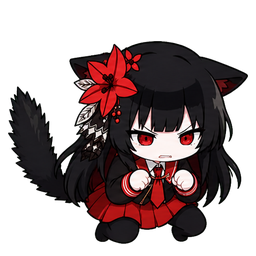
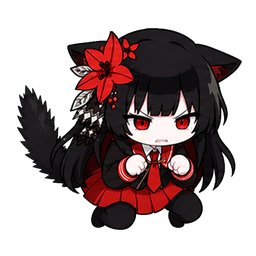
fix: smooth hiss scale transitions

diff --git a/tools/split_hiss_sheet.py b/tools/split_hiss_sheet.py
@@ -1,4 +1,4 @@
-"""Split a transparent three-frame hiss sheet into normalized pet sprites."""
+"""Split a transparent hiss sheet with one shared crop and scale."""
 
 from __future__ import annotations
 
@@ -12,6 +12,7 @@ def parse_args() -> argparse.Namespace:
     parser = argparse.ArgumentParser()
     parser.add_argument("sheet", type=Path)
     parser.add_argument("output_dir", type=Path)
+    parser.add_argument("--frame-count", type=int, default=5)
     parser.add_argument("--size", type=int, default=256)
     parser.add_argument("--character-height", type=int, default=218)
     parser.add_argument("--bottom-padding", type=int, default=12)
@@ -23,38 +24,54 @@ def main() -> int:
     args.output_dir.mkdir(parents=True, exist_ok=True)
 
     with Image.open(args.sheet).convert("RGBA") as sheet:
-        cell_width = sheet.width // 3
-        boxes = (
-            (0, 0, cell_width, sheet.height),
-            (cell_width, 0, cell_width * 2, sheet.height),
-            (cell_width * 2, 0, sheet.width, sheet.height),
+        boundaries = [
+            index * sheet.width // args.frame_count
+            for index in range(args.frame_count + 1)
+        ]
+        frames = [
+            sheet.crop(
+                (
+                    boundaries[index],
+                    0,
+                    boundaries[index + 1],
+                    sheet.height,
+                )
+            )
+            for index in range(args.frame_count)
+        ]
+        content_boxes = [frame.getbbox() for frame in frames]
+        if any(box is None for box in content_boxes):
+            raise ValueError("hiss sheet contains an empty frame")
+
+        visible_boxes = [box for box in content_boxes if box is not None]
+        common_box = (
+            min(box[0] for box in visible_boxes),
+            min(box[1] for box in visible_boxes),
+            max(box[2] for box in visible_boxes),
+            max(box[3] for box in visible_boxes),
+        )
+        common_width = common_box[2] - common_box[0]
+        common_height = common_box[3] - common_box[1]
+        scale = min(
+            (args.size - 16) / common_width,
+            args.character_height / common_height,
+        )
+        resized_size = (
+            max(1, round(common_width * scale)),
+            max(1, round(common_height * scale)),
+        )
+        offset = (
+            (args.size - resized_size[0]) // 2,
+            args.size - args.bottom_padding - resized_size[1],
         )
 
-        for index, box in enumerate(boxes, start=1):
-            frame = sheet.crop(box)
-            content_box = frame.getbbox()
-            if content_box is None:
-                raise ValueError(f"hiss frame {index} contains no visible pixels")
-
-            character = frame.crop(content_box)
-            scale = min(
-                (args.size - 16) / character.width,
-                args.character_height / character.height,
-            )
-            resized = character.resize(
-                (
-                    max(1, round(character.width * scale)),
-                    max(1, round(character.height * scale)),
-                ),
+        for index, frame in enumerate(frames, start=1):
+            character = frame.crop(common_box).resize(
+                resized_size,
                 Image.Resampling.LANCZOS,
             )
-
             canvas = Image.new("RGBA", (args.size, args.size))
-            offset = (
-                (args.size - resized.width) // 2,
-                args.size - args.bottom_padding - resized.height,
-            )
-            canvas.alpha_composite(resized, offset)
+            canvas.alpha_composite(character, offset)
             canvas.save(
                 args.output_dir / f"haqi_cat_hiss_{index:02d}.png",
                 optimize=True,

diff --git a/src/haqicat/interactive_window.py b/src/haqicat/interactive_window.py
@@ -29,8 +29,8 @@ class InteractivePetWindow(SpritePetWindow):
     RISE_FRAME_HOLD_TICKS = 4
     BLINK_DELAY_RANGE_MS = (2_500, 7_000)
     BLINK_FRAME_HOLD_TICKS = 2
-    HISS_DURATION_MS = 960
-    HISS_FRAME_HOLD_TICKS = 4
+    HISS_FRAME_SEQUENCE = (0, 0, 1, 1, 2, 2, 2, 3, 3, 4, 4, 4)
+    HISS_DURATION_MS = len(HISS_FRAME_SEQUENCE) * ACTIVE_FRAME_INTERVAL_MS
     CRAWL_FRAME_HOLD_TICKS = 3
 
     def __init__(self) -> None:
@@ -156,8 +156,15 @@ class InteractivePetWindow(SpritePetWindow):
         sprite_root = self.sprite_paths["hiss"].parent
         return tuple(
             QPixmap(str(sprite_root / f"haqi_cat_hiss_{index:02d}.png"))
-            for index in range(1, 4)
+            for index in range(1, 6)
         )
+
+    def _hiss_frame_index(self) -> int:
+        tick = min(
+            self._hiss_animation_tick,
+            len(self.HISS_FRAME_SEQUENCE) - 1,
+        )
+        return self.HISS_FRAME_SEQUENCE[tick]
 
     def set_state(self, state: str) -> None:
         """Keep motion timing appropriate for the selected state."""
@@ -604,10 +611,7 @@ class InteractivePetWindow(SpritePetWindow):
                 "hiss_animation_loaded": all(
                     not frame.isNull() for frame in self._hiss_frames
                 ),
-                "hiss_frame_index": min(
-                    len(self._hiss_frames) - 1,
-                    self._hiss_animation_tick // self.HISS_FRAME_HOLD_TICKS,
-                ),
+                "hiss_frame_index": self._hiss_frame_index(),
             }
         )
         return diagnostics
@@ -640,10 +644,7 @@ class InteractivePetWindow(SpritePetWindow):
             if not candidate.isNull():
                 sprite = candidate
         if visual_state == "hiss":
-            frame_index = min(
-                len(self._hiss_frames) - 1,
-                self._hiss_animation_tick // self.HISS_FRAME_HOLD_TICKS,
-            )
+            frame_index = self._hiss_frame_index()
             candidate = self._hiss_frames[frame_index]
             if not candidate.isNull():
                 sprite = candidate
@@ -728,20 +729,8 @@ class InteractivePetWindow(SpritePetWindow):
             y_scale = 1.0 + 0.018 * breath
             rotation = 1.2 * math.sin(phase * 1.2)
         elif visual_state == "hiss":
-            hiss_frame_index = min(
-                len(self._hiss_frames) - 1,
-                self._hiss_animation_tick // self.HISS_FRAME_HOLD_TICKS,
-            )
-            if hiss_frame_index == 0:
-                y_offset = 1.0
-                y_scale = 0.995
-            elif hiss_frame_index == 1:
-                x_offset = 2.0 * math.sin(phase * 28.0)
-                y_offset = -2.0
-                x_scale = 1.015
-                y_scale = 1.015
-            else:
-                y_offset = -0.5
+            if self._hiss_frame_index() == 2:
+                x_offset = 1.0 * math.sin(phase * 28.0)
         elif visual_state == "sleep":
             breath = (math.sin(phase * 1.5) + 1.0) / 2.0
             y_scale = 1.0 + 0.008 * breath

diff --git a/tests/test_interactive_window.py b/tests/test_interactive_window.py
@@ -201,22 +201,30 @@ class InteractivePetWindowTests(unittest.TestCase):
         self.assertFalse(self.window.diagnostic_state()["blink_active"])
         self.assertTrue(self.window._blink_timer.isActive())
 
-    def test_hiss_animation_uses_three_loaded_phases(self) -> None:
+    def test_hiss_animation_uses_five_proportional_phases(self) -> None:
         diagnostics = self.window.diagnostic_state()
         self.assertTrue(diagnostics["hiss_animation_loaded"])
-        self.assertEqual(diagnostics["hiss_animation_frames"], 3)
+        self.assertEqual(diagnostics["hiss_animation_frames"], 5)
+        self.assertEqual(
+            self.window.HISS_DURATION_MS,
+            len(self.window.HISS_FRAME_SEQUENCE)
+            * self.window.ACTIVE_FRAME_INTERVAL_MS,
+        )
 
         self.window._start_hiss()
-        self.assertEqual(self.window.state, "hiss")
-        self.assertEqual(self.window.diagnostic_state()["hiss_frame_index"], 0)
-
-        for expected_index in (1, 2):
-            for _ in range(self.window.HISS_FRAME_HOLD_TICKS):
-                self.window._advance_motion()
-            self.assertEqual(
-                self.window.diagnostic_state()["hiss_frame_index"],
-                expected_index,
+        observed_indices = [
+            self.window.diagnostic_state()["hiss_frame_index"]
+        ]
+        for _ in range(len(self.window.HISS_FRAME_SEQUENCE) - 1):
+            self.window._advance_motion()
+            observed_indices.append(
+                self.window.diagnostic_state()["hiss_frame_index"]
             )
+
+        self.assertEqual(
+            tuple(observed_indices),
+            self.window.HISS_FRAME_SEQUENCE,
+        )
 
         self.window._finish_hiss()
         self.assertEqual(self.window.state, "idle")

diff --git a/src/haqicat/sprite_window.py b/src/haqicat/sprite_window.py
@@ -57,7 +57,7 @@ class SpritePetWindow(PetWindow):
         sprite_root = project_root / "assets" / "character" / "processed"
         return {
             "idle": sprite_root / "haqi_cat_idle.png",
-            "hiss": sprite_root / "haqi_cat_hiss_02.png",
+            "hiss": sprite_root / "haqi_cat_hiss_03.png",
             "sleep": sprite_root / "haqi_cat_sleep.png",
             "drag": sprite_root / "haqi_cat_drag.png",
             "crawl_left": sprite_root / "haqi_cat_crawl_left_01.png",

diff --git a/docs/STAGE_4I.md b/docs/STAGE_4I.md
@@ -1,0 +1,24 @@
+# 阶段 4I：哈气比例与过渡返修
+
+本轮针对三相哈气中爆发帧突然变大、前后角色比例不统一以及动作硬切的问题进行返修。
+
+## 原因
+
+- 原三张素材按每格可见边界分别缩放，不同姿势会得到不同的实际人物倍率。
+- 爆发帧在绘制时还额外使用了 `1.015×` 放大和 2 像素上移，进一步放大了跳变。
+- 蓄势、爆发和收势之间没有中间姿势，只能直接切换轮廓。
+
+## 修正
+
+1. 重制五张素材：蓄势、起身过渡、爆发、回落过渡、收势。
+2. 五格使用共同裁切框、共同缩放倍率和共同画布位置，不再逐格缩放。
+3. 生成时锁定头部、眼睛、花饰、耳朵、手掌和衣服比例，并保持相同视角。
+4. 使用 12 拍序列 `0, 0, 1, 1, 2, 2, 2, 3, 3, 4, 4, 4`，总时长仍为 960 毫秒。
+5. 删除爆发帧的额外缩放与整体上移，只保留约 1 像素的横向轻震。
+
+## 验证
+
+- 自动测试：20 项全部通过。
+- 原生 Windows 窗口逐帧捕获到五个正确索引，动作结束后恢复待机。
+- 五帧耳朵顶线、头部和面部尺寸保持一致，过渡由姿势变化完成，不再依赖整体缩放。
+- 五张最终素材均为 256×256 RGBA PNG，素材清单 SHA-256 校验通过。

diff --git a/README.md b/README.md
@@ -70,7 +70,7 @@ HaqiCat/
 - 已完成：爬行收势与低趴观察过渡
 - 已完成：低趴观察结束后的撑起与半跪起身过渡
 - 已完成：无全身抖动的随机三相眨眼
-- 已完成：压低蓄势、炸毛爆发与低伏收势的三相哈气动画
+- 已完成：统一比例、含起落过渡的五相哈气动画
 - 已完成：落爪停顿、探身前移同步的爬行节拍与轻微肩背起伏
 - 后续：继续细化转身与动作衔接，并完成 PyInstaller 窗口程序打包
 
